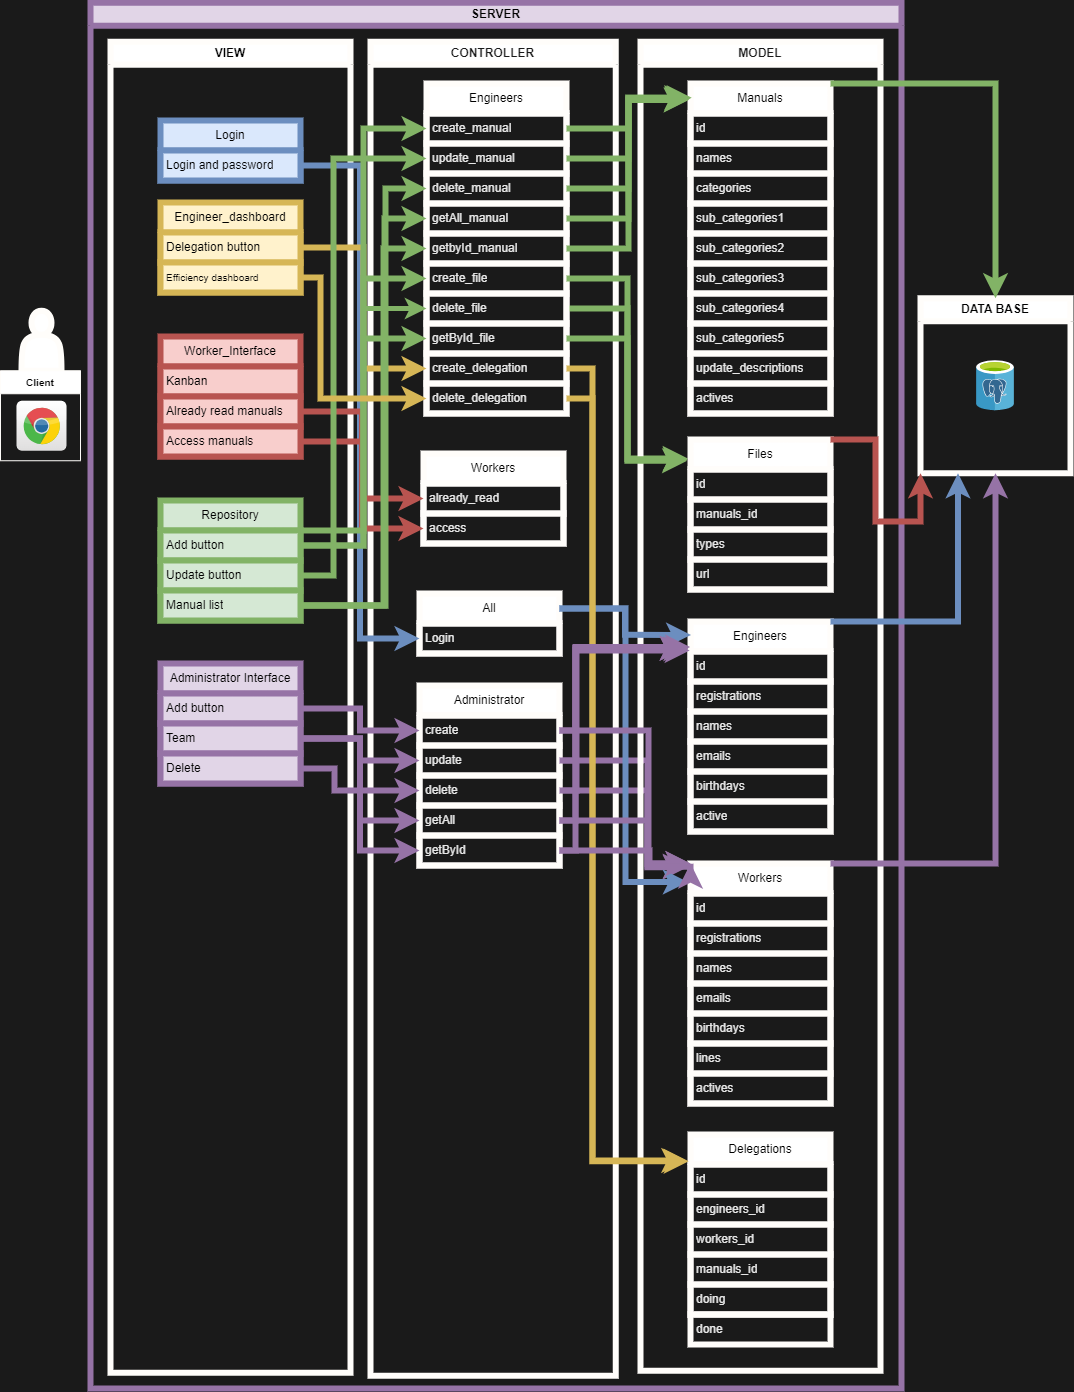
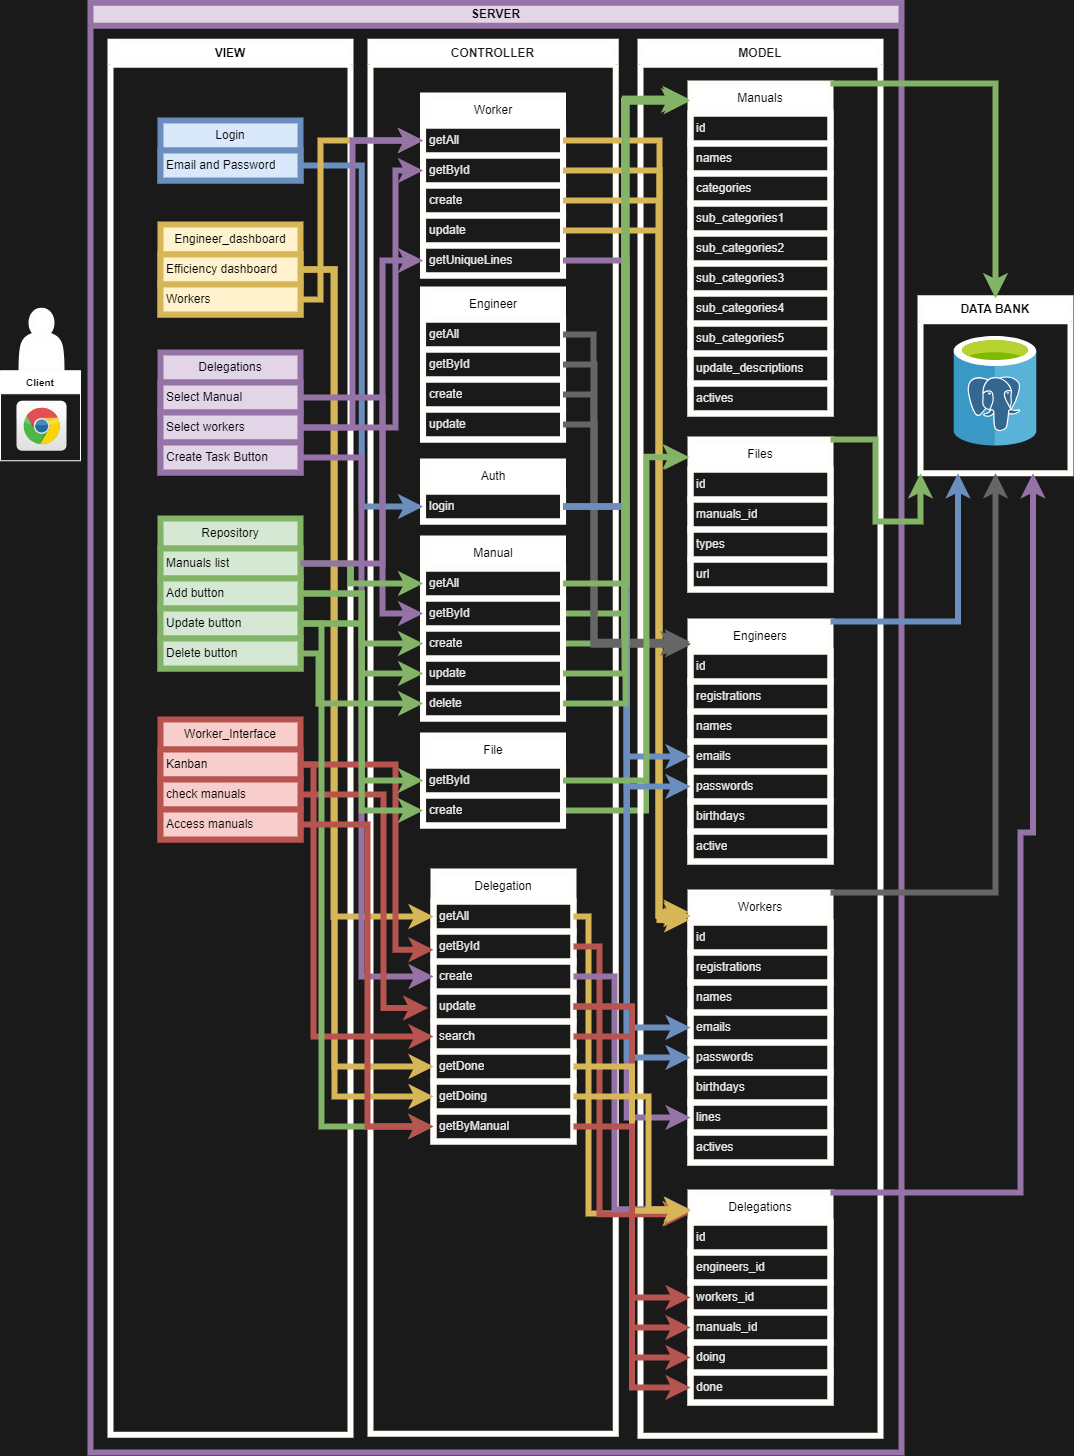
Atualização arquitetura

Changed region(s): [[0.0922, 0.0, 1.0, 0.9885], [0.338, 0.9576, 0.5838, 1.0], [0.0, 0.2162, 0.0922, 0.3398]]

diff --git a/README.md b/README.md
@@ -1,6 +1,6 @@
 # MVC - LedTech/Dell
 - <b> Nome do Projeto: </b> DellAware
-- <b> Descrição: </b> Trata-se de uma aplicação web que será desenvolvida para a empresa Dell Technologies voltada a resolver o problema das pausas na linha de produção. Para tanto, disponibilizar-se-á, por meio da ação dos administradores, os manuais necessários para a linha de produção individualmente a cada montador da fábrica. Além disso, os montadores terão a chance de checar os manuais que já leram e os administradores verão o desempenho dos montadores em relação a leitura dos manuais.
+- <b> Descrição: </b> Trata-se de uma aplicação web que será desenvolvida para a empresa Dell Technologies voltada a resolver o problema das pausas na linha de produção. Para tanto, disponibilizar-se-á, por meio da ação dos engenheiros, os manuais necessários para a linha de produção individualmente a cada montador da fábrica. Além disso, os montadores terão a chance de checar os manuais que já leram e os engenheiros verão o desempenho dos montadores em relação a leitura dos manuais.
 - <b> Arquitetura: </b> MVC (Model-View-Controller)
 - <b> Ferramenta de Diagramação: </b> draw.io
 
@@ -32,133 +32,170 @@
 
 ## Controladores (Controllers):
 
-&nbsp;&nbsp;&nbsp;&nbsp; Nesta aplicação, os usuários serão divididos em <i> engineer </i>, <i> worker </i>, e <i> administrators </i>. Os administradores têm acesso aos seguintes controladores:
-- create: adiciona um funcionário à lista de <code> worker </code> ou <code>engineer</code>:
-  - Parâmetros de entrada: registrations, names, emails, birthdays, (lines), actives
-  - Parâmetros de saída: N/A
-  - Ações: Pedir ao model para adicionar um registro à tabela <code> worker </code>
-  - View: cria um <i> worker's interface </i> para o novo montador
+&nbsp;&nbsp;&nbsp;&nbsp; Para essa aplicação, criou-se seis controllers que possuem os seguintes métodos.
 
-- getById: possibilita a visualização dos dados de um funcionário
-  - Parâmetros de entrada: id (<code> worker </code> ou <code>engineer</code>)
-  - Parâmetros de saída:  names, emails, birthdays, (lines), actives
-  - Ações: Pedir ao model para consultar os dados de um funcionário sob o id da tabela <code> worker </code> ou <code>engineer</code>
-  - View: Abre uma aba com os dados do funcionário
+### Auth
 
-- getAll: possibilita a visualização dos dados de todos os funcionários de <code>worker</code> ou <code>engineer</code>
-  - Parâmetros de entrada: N/A
-  - Parâmetros de saída:  names, emails, birthdays, (lines), actives
-  - Ações: Pedir ao model para consultar todos os dados de <code>worker</code> ou <code>engineer</code>
-  - View: Atualiza a team
-
-- update: atualiza um funcionário na lista de <code> worker </code> ou <code>engineer</code>
-  - Parâmetros de entrada: id, registrations, names, emails, birthdays, (lines), actives
-  - Ações: Pedir ao model para alterar um registro da tabela <code> worker </code> ou <code>engineer</code>
-  - View: atualiza a team
-
-- delete: exclui um funcionário da lista <code> worker </code> ou <code>engineer</code>
-  - Parâmetros de entrada: id
-  - Parâmetros de saída: N/A
-  - Ações: Pedir ao model para deletar um registro da tabela <code> worker </code> ou <code>engineer</code>
-  - View: exclui o<i> worker's interface </i> ou <i>engineer's dashboard</i> do montador ou engenheiro excluído, respectivamente
-
-&nbsp;&nbsp;&nbsp;&nbsp; Já os engenheiros têm acesso aos seguintes controllers:
-
-- create_manual: adiciona um manual à lista de manuais
-  - Parâmetros de entrada: names, categories, sub_categories1, sub_categories2, sub_categories3, sub_categories4, sub_categories5, actives
-  - Parâmetros de saída: N/A
-  - Ações: Pedir ao model para adicionar um registro a tabela <code> manual </code>
-  - View: altera o repositório de manuais, adicionando um manual
-
-- update_manual: atualiza um manual já criado
-  - Parâmetros de entrada: id (<code> manual </code>), date, update_descriptions, actives
-  - Parâmetros de saída: N/A
-  - Ações: Pedir ao model para alterar um registro da tabela <code> manual </code>
-  - View: altera o repositório de manuais, atualizando-o; adiciona uma descrição da atualização aos funcionários que tinham o manual na sua lista de leitura e altera o interface do funcionário atualizando a leitura
-
-- delete_manual: exclui um manual da tabela <code>manual</code>
-  - Parâmetros de entrada: id
-  - Parâmetros de saída: N/A
-  - Ações: Pedir ao model para deletar um registro da tabela <code> manual </code>
-  - View: exclui o manual do repositório
-
-- getAll_manual: possibilita a visualização dos dados de todos os manuais
-  - Parâmetros de entrada: N/A
-  - Parâmetros de saída: id (<code> manual </code>), date, update_descriptions, actives 
-  - Ações: Pedir ao model para consultar todos os dados de <code>manual</code>
-  - View: Atualiza o repositorio
-
-- getById_manual: possibilita a visualização dos dados de um manual 
-  - Parâmetros de entrada: id
-  - Parâmetros de saída: id (<code> manual </code>), date, update_descriptions, actives 
-  - Ações: Pedir ao model para consultar todos os dados de <code>manual</code> sob o id requisitado
-  - View: Abre uma aba com os dados
-  
-- create_file: adiciona um arquivo à lista de <code> file </code>
-  - Parâmetros de entrada: id (<code> manual </code>), types, url
-  - Parâmetros de saída: N/A
-  - Ações: Pedir ao model para adicionar um registro a tabela <code> file </code>
-  - View: altera o repositório de manuais, adicionando um arquivo dentro do respectivo manual
-
-- delete_file: deleta um file já criado
-  - Parâmetros de entrada: id (<code> file </code>)
-  - Parâmetros de saída: N/A
-  - Ações: Pedir ao model para deletar um registro da tabela <code> file </code>
-  - View: altera o repositório de manuais, deletando um arquivo de dentro do respectivo manual
-
-- delete_file: exclui um file da tabela <code>file</code>
-  - Parâmetros de entrada: id
-  - Parâmetros de saída: N/A
-  - Ações: Pedir ao model para deletar um registro da tabela <code> file </code>
-  - View: exclui o file dos manuais
-
-- getById_file: possibilita a visualização dos dados de um manual 
-  - Parâmetros de entrada: id
-  - Parâmetros de saída: id (<code> manual </code>), types, url 
-  - Ações: Pedir ao model para consultar todos os dados de <code>file</code> sob o id requisitado
-  - View: Abre uma aba com os dados
-
-- create_delegation: delega uma leitura a um montador
-  - Parâmetros de entrada: registrations (<code> engineer </code>), registrations (<code> worker </code>), id (<code> manual </code>)
-  - Parâmetros de saída: N/A
-  - Ações: Pedir ao model para adicionar um registro a tabela <code> delegation </code>
-  - View: altera o interface do montador, adicionando a leitura; altera a dashboard do administrador com novas informações
-
-- delete_delegation: deleta uma delegation já criada
-  - Parâmetros de entrada: id
-  - Parâmetros de saída: N/A
-  - Ações: Pedir ao model para deletar um registro da tabela <code> delegation </code>
-  - View: altera o dashboard dos engenheiros
-
-
-&nbsp;&nbsp;&nbsp;&nbsp; Já os montadores têm acesso aos seguintes controllers:
-- already_read: dá um "check" no manual
-  - Parâmetros de entrada: id (<code> delegation </code>)
-  - Parâmetros de saída: N/A
-  - Ações: Pedir ao model para atualizar o registro sob id (<code> delegation </code>), setando o atributo <i> done </i> como verdadeiro.
-  - View: altera a interface do montador, "riscando" a tarefa da lista; altera o dashboard do administrador com novas informações
-  
-- acess: possibilita a leitura do manual
-  - Parâmetros de entrada: id (<code> delegation </code>), id (<code> manual </code>)
-  - Parâmetros de saída: names, types, url (<code> file </code>)
-  - Ações: Pedir ao model para consultar os arquivos sob o registro id (<code> manual </code>)
-  - View: Abre uma aba com os arquivos do manual
-
-&nbsp;&nbsp;&nbsp;&nbsp; Além disso, engenheiros e montadores terão acesso ao seguinte controller:
-- Auth: permite logar na aplicação
+Login: permite logar na aplicação
   - Parâmetros de entrada: emails e passwords
   - Parâmetros de saída: N/A
   - Ações: Pedir ao model para consultar o registro e <i>emails </i> e checar a senha nas tabelas <code> worker </code> e <code> engineer </code>
   - View: atualiza a view, redirecionando o usuário a seu respectivo interface
 
+
+### Enginner
+
+- create: adiciona um engenheiro à tabela de <code>engineer</code>:
+  - Parâmetros de entrada: registrations, names, emails, birthdays, actives
+  - Parâmetros de saída: N/A
+  - Ações: Pedir ao model para adicionar um registro à tabela <code> engineer</code>
+  - View: permite acesso ao fluxo de engenheiro ao novo engenheiro
+
+- getById: possibilita a visualização dos dados de um engenheiro
+  - Parâmetros de entrada: id (<code>engineer</code>)
+  - Parâmetros de saída:  registrations, names, emails, birthdays, actives
+  - Ações: Pedir ao model para consultar os dados de um funcionário sob o id da tabela <code>engineer</code>
+  - View: N/A
+
+- getAll: possibilita a visualização dos dados de todos os funcionários de <code>engineer</code>
+  - Parâmetros de entrada: N/A
+  - Parâmetros de saída:  registrations, names, emails, birthdays, actives
+  - Ações: Pedir ao model para consultar todos os dados de <code>engineer</code>
+  - View: N/A
+
+- update: atualiza um funcionário na tabela de <code>engineer</code>
+  - Parâmetros de entrada: id, registrations, names, emails, birthdays, actives
+  - Ações: Pedir ao model para alterar um registro da tabela <code>engineer</code>
+  - View: N/A
+
+- delete: exclui um funcionário da tabela de <code>engineer</code>
+  - Parâmetros de entrada: id
+  - Parâmetros de saída: N/A
+  - Ações: Pedir ao model para deletar um registro da tabela <code>engineer</code>
+  - View: exclui a rota privada do engenheiro deletado
+
+### Worker
+
+- create: adiciona um montador à tabela de <code>worker</code>:
+  - Parâmetros de entrada: registrations, names, emails, birthdays, lines, actives
+  - Parâmetros de saída: N/A
+  - Ações: Pedir ao model para adicionar um registro à tabela <code>workers</code>
+  - View: permite acesso ao fluxo de montador ao novo montador/altera os funcionários da view de delegação e funcionários
+
+- getById: possibilita a visualização dos dados de um montador
+  - Parâmetros de entrada: id (<code>montador</code>)
+  - Parâmetros de saída:  registrations, names, emails, birthdays, lines, actives
+  - Ações: Pedir ao model para consultar os dados de um funcionário sob o id da tabela <code>workers</code>
+  - View: N/A
+
+- getAll: possibilita a visualização dos dados de todos os funcionários de <code>montador</code>
+  - Parâmetros de entrada: N/A
+  - Parâmetros de saída:  registrations, names, emails, birthdays, lines, actives
+  - Ações: Pedir ao model para consultar todos os dados de <code>workers</code>
+  - View: N/A
+
+- update: atualiza um funcionário na tabela de <code>montador</code>
+  - Parâmetros de entrada: id, registrations, names, emails, birthdays, actives
+  - Ações: Pedir ao model para alterar um registro da tabela <code>workers</code>
+  - View: altera os funcionários da view de delegação e funcionários
+
+- delete: exclui um funcionário da tabela de <code>montador</code>
+  - Parâmetros de entrada: id
+  - Parâmetros de saída: N/A
+  - Ações: Pedir ao model para deletar um registro da tabela <code>montador</code>
+  - View: exclui a rota privada do montador deletado/ altera os funcionários da view de delegação e funcionários
+
+
+### Manual
+
+- create: adiciona um manual à tabela de <code>manuals</code>:
+  - Parâmetros de entrada: names, categories, sub_categories1, sub_categories2, sub_categories3, sub_categories4, sub_categories5, update_descriptions, active
+  - Parâmetros de saída: N/A
+  - Ações: Pedir ao model para adicionar um registro à tabela <code>manual</code>
+  - View: Altera a view de select manual/repository
+
+- getById: possibilita a visualização dos dados de um montador
+  - Parâmetros de entrada: id (<code>montador</code>)
+  - Parâmetros de saída:  registrations, names, emails, birthdays, lines, actives
+  - Ações: Pedir ao model para consultar os dados de um funcionário sob o id da tabela <code>montador</code>
+  - View: N/A
+
+- getAll: possibilita a visualização dos dados de todos os manuais de <code>manuals </code>
+  - Parâmetros de entrada: N/A
+  - Parâmetros de saída:  names, categories, sub_categories1, sub_categories2, sub_categories3, sub_categories4, sub_categories5, update_descriptions, active
+  - Ações: Pedir ao model para consultar todos os dados de <code>montador</code>
+  - View: N/A
+
+- update: atualiza um funcionário na tabela de <code>montador</code>
+  - Parâmetros de entrada: names, categories, sub_categories1, sub_categories2, sub_categories3, sub_categories4, sub_categories5, update_descriptions, active
+  - Parâmetros de saída:  N/A
+  - Ações: Pedir ao model para alterar um registro da tabela <code>manuals</code>
+  - View: Altera a view de select manual/repository
+
+- delete: exclui um manual da tabela de <code>manuals</code>
+  - Parâmetros de entrada: id
+  - Parâmetros de saída: N/A
+  - Ações: Pedir ao model para deletar um registro da tabela <code>manuals</code>
+  - View: Altera a view de select manual/repository
+
+### Delegation
+
+- getById: possibilita a visualização dos dados de uma delegação
+  - Parâmetros de entrada: id (<code>delegation</code>)
+  - Parâmetros de saída:  doing, done, engineers_id, workers_id, manuals_id
+  - Ações: Pedir ao model para consultar os dados de um funcionário sob o id da tabela <code>delegations</code>
+  - View: N/A
+
+- getAll: possibilita a visualização dos dados de todos os manuais de <code>manuals </code>
+  - Parâmetros de entrada: N/A
+  - Parâmetros de saída: doing, done, engineers_id, workers_id, manuals_id
+  - Ações: Pedir ao model para consultar todos os dados de <code>manuals</code>
+  - View: N/A
+
+- create: delega uma leitura a um montador
+  - Parâmetros de entrada: registrations (<code> engineer </code>), registrations (<code> worker </code>), id (<code> manual </code>)
+  - Parâmetros de saída: N/A
+  - Ações: Pedir ao model para adicionar um registro a tabela <code> delegation </code>
+  - View: altera o interface do montador, adicionando a leitura; altera a dashboard do engenheiro com novas informações
+
+- update: atualiza uma delegation já criada
+  - Parâmetros de entrada: doing, done
+  - Parâmetros de saída: N/A
+  - Ações: Pedir ao model para atualizar um registro da tabela <code> delegations </code> a depender do progresso do montador na sua leitura
+  - View: altera o dashboard dos engenheiros e move o card no kanban do montador
+ 
+- search: pesquisa delegações com base no id do montador e faz um join com manuals_id 
+ - Parâmetros de entrada: workers_id
+ - Parâmetros de saída:  doing, done, engineers_id, workers_id, names, categories, sub_categories1, sub_categories2, sub_categories3, sub_categories4, sub_categories5, update_descriptions, active
+ - Ações: Pedir ao model para consultar todos os registros da tabela <code>delegations</code> sob o id (<code>workers</code>) e fazer um join com a tabela <code>manuals</code> onde manuals_id = id (<code>manuals</code>)
+ - View: aparecem delegações personalizadas no kanban dos funcionários
+
+- getDoing: consulta a quantidade de delegações em que doing = true.
+ - Parâmetros de entrada: N/A
+ - Parâmetros de saída: número
+ - Ações: Pedir ao model para retornar a quantidade de delegações com a linha na coluna doing igual a verdadeiro.
+ - Views: Muda o dashboard do engenheiro
+
+- getDone: consulta a quantidade de delegações em que done = true.
+ - Parâmetros de entrada: N/A
+ - Parâmetros de saída: número
+ - Ações: Pedir ao model para retornar a quantidade de delegações com a linha na coluna done igual a verdadeiro.
+ - Views: Muda o dashboard do engenheiro
+
+- getByManual: consulta as delegações que possuem um manual específico.
+ - Parâmetros de entrada: id (<code>manual</code>)
+ - Parâmetros de saída: id, doing, done, engineers_id, workers_id, names, manuals_id
+ - Ações: Pedir ao model para retornar as delegações que possuem um manual específico
+ - Views: N/A
+
 ## Views (Views):
 
 &nbsp;&nbsp;&nbsp;&nbsp; As views, ou seja, as interfaces as quais os usuários irão interagir são:
 - Login: permitirá o usuário logar na aplicação;
-- engineer_dashboard: permitirá o administrador delegar manuais da lista de leitura de seus funcionários e ver o desempenho deles;
+- engineer_dashboard: permitirá o engenheiro ver o desempenho de seus funcionários;
+- Delegations: permitirá delegar manuais da lista de leitura aos seus funcionários.
 - worker_interface: permitirá o montador ver sua lista de leitura, checar as leituras já feitas e acessar os manuais;
 - repository: permitirá ao engenheiro adicionar, atualizar, ver e deletar manuais e arquivos desses respectivos manuais
-- administrator_interface: permitirá ao administrador ver, adicionar, deletar e ver seus funcionários
 
 ## Infraestrutura:
 
@@ -176,3 +213,4 @@
 &nbsp;&nbsp;&nbsp;&nbsp; A arquitetura Model-View-Controller (MVC) traz implicações importantes para o projeto "DellAware" da LedTech/Dell em termos de escalabilidade, manutenção, testabilidade e colaboração entre equipes de desenvolvimento. Com a separação clara de responsabilidades entre Model, View e Controller, o projeto se torna mais escalável. É possível escalar diferentes partes do sistema independentemente umas das outras, respondendo de forma eficiente a mudanças na demanda ou no volume de dados. De forma semelhante, em relação à manutenção, a divisão em três componentes distintos simplifica as atualizações e correções de bugs. As alterações podem ser feitas em cada componente de forma independente, sem afetar diretamente as outras partes do sistema. Isso torna o processo de desenvolvimento mais ágil e menos propenso a introduzir novos problemas. <br>
 &nbsp;&nbsp;&nbsp;&nbsp; A testabilidade também é beneficiada pela arquitetura MVC. Cada componente pode ser testado de forma isolada, garantindo que eles estejam funcionando corretamente e interagindo entre si da maneira esperada. Isso facilita a detecção e correção de erros durante o processo de desenvolvimento, garantindo a qualidade do software final. Além disso, a adoção do padrão MVC facilita a colaboração entre equipes de desenvolvimento. Com responsabilidades claramente definidas para cada componente, as equipes podem trabalhar de forma mais eficiente e coordenada, focando em suas áreas de especialização e contribuindo para o projeto de maneira mais eficaz. <br>
 &nbsp;&nbsp;&nbsp;&nbsp; Em resumo, a arquitetura MVC proporciona uma estrutura sólida para o desenvolvimento do projeto "DellAware", oferecendo benefícios significativos em termos de escalabilidade, manutenção, testabilidade e colaboração entre equipes de desenvolvimento. Isso contribui para a criação de um software robusto, flexível e de alta qualidade.
+
